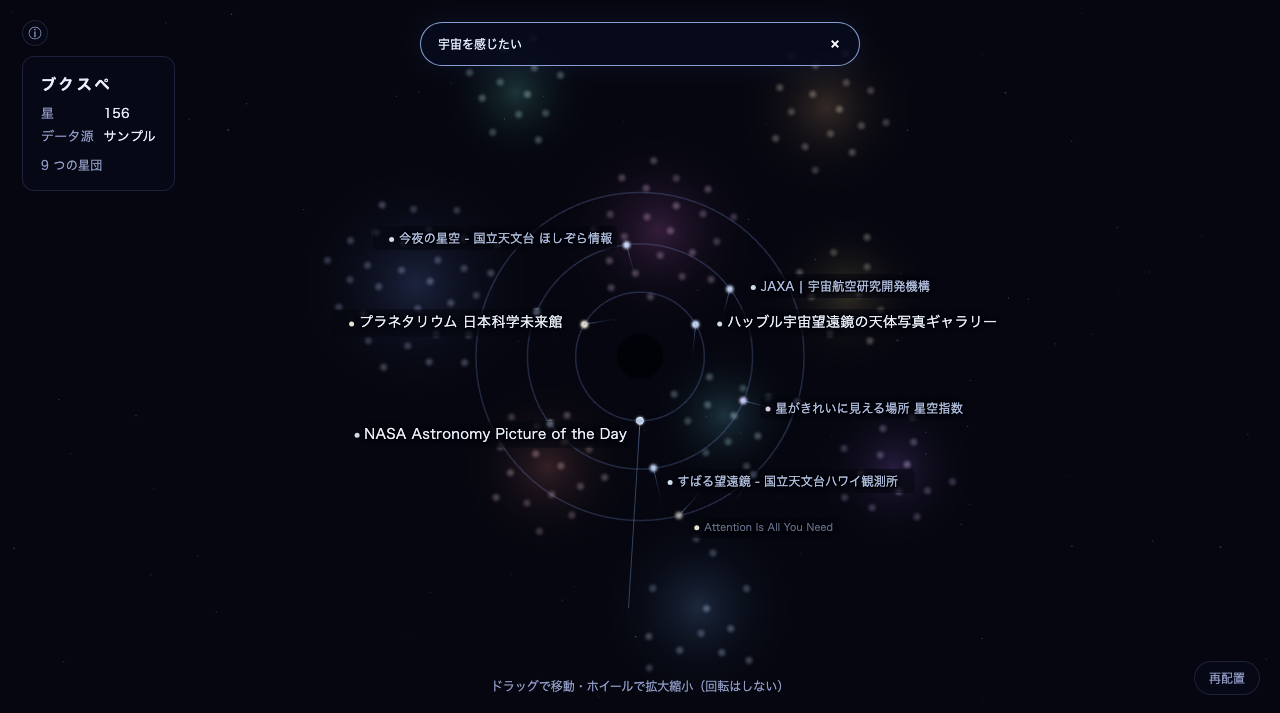
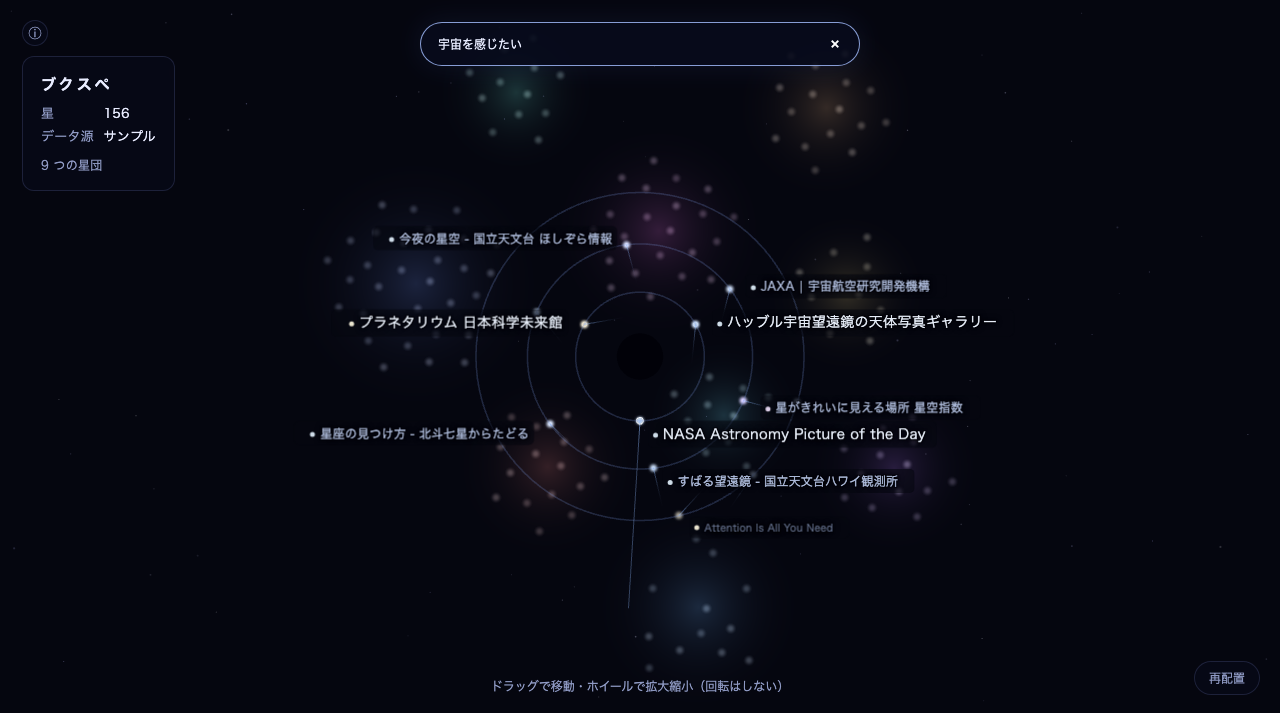
fix(labels): smooth camera tracking

diff --git a/src/render/scene.ts b/src/render/scene.ts
@@ -43,7 +43,14 @@ export class SpaceView {
   /** 地図全体が画面の約 80% に収まる距離。拡大率の段階はこれを基準にする。 */
   private fitDistance = 90;
   private labelSource: LabelSource = { clusters: [], stars: [] };
-  private labelTimer = 0;
+  private labelsDirty = true;
+  private lastLabelMotion = 0;
+  private lastLabelTier: ZoomTier | null = null;
+  private readonly lastLabelCamera = new THREE.Matrix4();
+  private labelCameraKnown = false;
+  private labelDecisions = 0;
+  private labelPositionUpdates = 0;
+  private maxLabelPositionMs = 0;
   private screenCircles: ScreenCircle[] = [];
   private tilt = TILT;
   private tiltTarget = TILT;
@@ -145,7 +152,7 @@ export class SpaceView {
     this.bounds = boundsOf(stars, this.extent);
     if (frame) this.frameAll();
     this.resize();
-    this.labelTimer = 0;
+    this.labelsDirty = true;
   }
 
   /** 入力を始めたら真上から、やめたら斜めから（SPEC 7 章）。 */
@@ -171,7 +178,7 @@ export class SpaceView {
     this.trace.visible = this.searchIds.length > 0;
     this.tails.visible = this.searchIds.length > 0;
     this.hoveredId = null;
-    this.labelTimer = 0;
+    this.labelsDirty = true;
   }
 
   selectSearch(id: string | null): void {
@@ -259,6 +266,15 @@ export class SpaceView {
   /** check:ext が画面上のタイトルと星団の円を照合するための投影値。 */
   labelGeometry(): ScreenCircle[] {
     return this.screenCircles;
+  }
+
+  labelStats(): { frames: number; positionUpdates: number; decisions: number; maxPositionMs: number } {
+    return { frames: this.frames, positionUpdates: this.labelPositionUpdates,
+      decisions: this.labelDecisions, maxPositionMs: this.maxLabelPositionMs };
+  }
+
+  resetLabelTiming(): void {
+    this.maxLabelPositionMs = 0;
   }
 
   start(): void {
@@ -388,17 +404,47 @@ export class SpaceView {
       if (p) this.selectedHalo.position.set(p.x, 0.11, -p.y);
     }
     this.controls.update();
-    this.renderer.render(this.scene, this.camera);
-
-    // ラベルは毎コマ組み直さない（星の描画を邪魔しない）
-    this.labelTimer -= dt;
-    if (this.labelTimer <= 0) {
-      this.labelTimer = 0.12;
-      this.updateLabels();
+    this.camera.updateMatrixWorld();
+    const now = performance.now();
+    const matrix = this.camera.matrixWorld.elements;
+    const previous = this.lastLabelCamera.elements;
+    const moving = !this.labelCameraKnown || matrix.some((value, i) => Math.abs(value - previous[i]) > 1e-6);
+    if (moving) {
+      this.lastLabelMotion = now;
+      this.lastLabelCamera.copy(this.camera.matrixWorld);
+      this.labelCameraKnown = true;
     }
+    const tier = this.zoomTier;
+    if (this.lastLabelTier === null || tier !== this.lastLabelTier ||
+      (!moving && now - this.lastLabelMotion >= 150 && (this.labelsDirty || this.lastLabelMotion > 0))) {
+      this.decideLabels();
+      this.labelsDirty = false;
+      this.lastLabelTier = tier;
+      this.lastLabelMotion = 0;
+      this.labelDecisions++;
+    }
+    const labelStart = performance.now();
+    const size = this.renderer.getSize(new THREE.Vector2());
+    const point = new THREE.Vector3();
+    this.labels.updatePositions((item) => {
+      const current = item.searchRank == null ? null : this.field.displayPosition(item.key);
+      point.set(current?.x ?? item.x, 0, -(current?.y ?? item.y)).project(this.camera);
+      if (point.z > 1) return null;
+      let sx = (point.x * 0.5 + 0.5) * size.x;
+      let sy = (-point.y * 0.5 + 0.5) * size.y;
+      if (item.searchRank != null) {
+        const outward = Math.hypot(sx - size.x / 2, sy - size.y / 2) || 1;
+        sx += (sx - size.x / 2) / outward * 10;
+        sy += (sy - size.y / 2) / outward * 10;
+      }
+      return { sx, sy };
+    });
+    this.labelPositionUpdates++;
+    this.maxLabelPositionMs = Math.max(this.maxLabelPositionMs, performance.now() - labelStart);
+    this.renderer.render(this.scene, this.camera);
   };
 
-  private updateLabels(): void {
+  private decideLabels(): void {
     const tier = this.zoomTier;
     const size = this.renderer.getSize(new THREE.Vector2());
     const v = new THREE.Vector3();
@@ -439,6 +485,8 @@ export class SpaceView {
       items.push({
         key: `c${c.index}`,
         text: c.name,
+        x: c.x, y: tier === "far" ? c.y : c.y + c.radius + 1.5,
+        centered: tier === "far",
         sx: at.sx,
         sy: at.sy,
         kind: "cluster",
@@ -459,6 +507,7 @@ export class SpaceView {
         const own = this.labelSource.clusters.find((c) => c.index === s.cluster);
         items.push({
           key: s.id, text: s.title,
+          x: s.x, y: s.y,
           sx: this.searchIds.length ? at.sx + (at.sx - size.x / 2) / outward * 10 : at.sx,
           sy: this.searchIds.length ? at.sy + (at.sy - size.y / 2) / outward * 10 : at.sy,
           kind: "star",
@@ -481,6 +530,7 @@ export class SpaceView {
     this.renderer.setSize(w, h, false);
     this.camera.aspect = w / h;
     this.camera.updateProjectionMatrix();
+    this.labelsDirty = true;
     // 世界の大きさ 1 が画面上で何ピクセルになるか（距離 1 のとき）
     const scale =
       this.renderer.getDrawingBufferSize(new THREE.Vector2()).y /

diff --git a/src/ui/labels.ts b/src/ui/labels.ts
@@ -13,6 +13,10 @@ export type PlacedLabel = {
   side?: "left" | "right";
   color?: string;
   searchRank?: number;
+  /** カメラ移動中も追跡する地図上の位置。検索中の星は表示位置を使う。 */
+  x: number;
+  y: number;
+  centered?: boolean;
 };
 
 export type Box = { l: number; t: number; r: number; b: number };
@@ -56,7 +60,8 @@ export function entersCircle(box: Box, circle: ScreenCircle): boolean {
  * 星団中心から外へ向けてタイトルを置き、他のタイトルと重なるものを間引く。
  */
 export class LabelLayer {
-  private readonly pool: HTMLDivElement[] = [];
+  private readonly elements = new Map<string, HTMLDivElement>();
+  private active: { item: PlacedLabel; width: number; height: number }[] = [];
   private readonly measure = document.createElement("canvas").getContext("2d");
   private readonly fullText = new Map<string, string>();
   private hovered: string | null = null;
@@ -110,15 +115,42 @@ export class LabelLayer {
     this.paint([]);
   }
 
-  private paint(shown: { item: PlacedLabel; text: string; box: Box }[]): void {
-    while (this.pool.length < shown.length) {
-      const el = document.createElement("div");
-      el.className = "label";
-      this.container.appendChild(el);
-      this.pool.push(el);
+  /** 表示判断は変えず、保存した大きさを使って位置だけを毎フレーム動かす。 */
+  updatePositions(project: (item: PlacedLabel) => { sx: number; sy: number } | null): void {
+    for (const { item, width, height } of this.active) {
+      const at = project(item);
+      if (!at) continue;
+      const x = item.centered
+        ? at.sx - width / 2
+        : item.kind === "star" && item.side === "left" ? at.sx - OFFSET_X - width : at.sx + OFFSET_X;
+      const y = at.sy - height / 2;
+      this.elements.get(item.key)!.style.transform = `translate3d(${x.toFixed(1)}px, ${y.toFixed(1)}px, 0)`;
     }
-    shown.forEach(({ item, text, box }, i) => {
-      const el = this.pool[i];
+  }
+
+  private paint(shown: { item: PlacedLabel; text: string; box: Box }[]): void {
+    const next = new Set(shown.map(({ item }) => item.key));
+    for (const [key, el] of this.elements) {
+      if (next.has(key)) continue;
+      el.style.opacity = "0";
+      el.style.pointerEvents = "none";
+      setTimeout(() => {
+        if (this.active.some(({ item }) => item.key === key)) return;
+        el.remove();
+        this.elements.delete(key);
+      }, 220);
+    }
+    this.active = shown.map(({ item, box }) => ({ item, width: box.r - box.l, height: box.b - box.t }));
+    shown.forEach(({ item, text, box }) => {
+      let el = this.elements.get(item.key);
+      const fresh = !el;
+      if (!el) {
+        el = document.createElement("div");
+        el.className = "label";
+        el.style.opacity = "0";
+        this.container.appendChild(el);
+        this.elements.set(item.key, el);
+      }
       el.textContent = text;
       const orbit = item.searchRank == null ? "" : item.searchRank < 3 ? " label-orbit-inner"
         : item.searchRank < 9 ? " label-orbit-middle" : " label-orbit-outer";
@@ -133,10 +165,10 @@ export class LabelLayer {
       el.style.setProperty("--cluster-color", item.color ?? "transparent");
       // 省略したものだけ、マウスを乗せたら全文を出す
       el.style.pointerEvents = item.searchRank != null || text !== this.fullText.get(item.key) ? "auto" : "none";
-      el.style.transform = `translate(${box.l.toFixed(1)}px, ${box.t.toFixed(1)}px)`;
-      el.style.display = "block";
+      el.style.transform = `translate3d(${box.l.toFixed(1)}px, ${box.t.toFixed(1)}px, 0)`;
+      if (fresh) requestAnimationFrame(() => { if (this.active.some(({ item: active }) => active.key === item.key)) el.style.opacity = "1"; });
+      else el.style.opacity = "1";
     });
-    for (let i = shown.length; i < this.pool.length; i++) this.pool[i].style.display = "none";
   }
 
   private readonly onOver = (e: Event) => {

diff --git a/src/main.ts b/src/main.ts
@@ -444,6 +444,8 @@ let saved: { items: BookmarkItem[]; vectors: Map<string, Float32Array>; layout: 
   starPosition: (id: string) => view?.starPosition(id),
   starVisual: (id: string) => view?.starVisual(id),
   traceGeometry: () => view?.traceGeometry(),
+  labelStats: () => view?.labelStats(),
+  resetLabelTiming: () => view?.resetLabelTiming(),
   cameraTilt: () => view?.cameraTilt(),
   measureLexical: (text: string) => { const t = performance.now(); rankSearch(state.items, text); return performance.now() - t; },
 };

diff --git a/index.html b/index.html
@@ -105,6 +105,8 @@
         position: absolute;
         top: 0;
         left: 0;
+        will-change: transform, opacity;
+        transition: opacity 180ms ease;
         padding: 3px 5px;
         border-radius: 5px;
         background: rgba(5, 6, 15, 0.6);

diff --git a/docs/HANDOFF.md b/docs/HANDOFF.md
@@ -69,6 +69,19 @@
   外側のタイトルは暗めで、マウスを乗せると明るくなる。
 - `docs/screens/search.png` と `docs/screens/search-results.json` は仕上げ後の結果。
 
+### ラベル移動のなめらかさ（M2・M3 共通）
+
+- 通常画面と検索中のラベルを同じ方法で動かす。表示候補・左右・重なりは、カメラが
+  止まってから約 150ms 後、または拡大率の段階が変わったときにだけ再判定する。
+  移動中は表示中の集合と測定済みの幅・高さを保持する。
+- 座標はカメラ更新後、WebGL 描画と同じフレームで `translate3d` に書く。
+  この位置更新は DOM のレイアウト値を読まない。ラベルの入れ替わりは opacity の
+  180ms の変化で見せる。
+- `check:ext` は通常画面・検索中をそれぞれ約 0.75 秒ドラッグする。
+  描画と位置更新は 84/84 コマ、89/89 コマで一致し、更新時間の最大は
+  通常画面 0.10ms、検索中 0.40ms。
+  Chrome の `LayoutCount` とラベル再判定回数はドラッグ中どちらも増えなかった。
+
 ---
 
 ## 2. 決めたことと、その理由
@@ -136,6 +149,9 @@
   重なりを禁じるのは**タイトル同士だけ**で、星の上に重なるのは許し、半透明の暗い下地で読ませる。
   中距離は全角 18 文字で省略（マウスを乗せると全文）、近距離は全文。同時表示は 60 件まで。
 - 遠距離では星団名を星雲の中心に重ね、中距離以降は円の上端の少し上に置く。
+- 表示判断と位置更新を分ける。`src/render/scene.ts` がカメラ停止後約 150ms と段階変更時に
+  `LabelLayer.render()` を呼び、毎フレーム `LabelLayer.updatePositions()` を描画直前に呼ぶ。
+  幅・高さは判断時に測って保持し、毎フレームの DOM レイアウト読み取りは行わない。
 - 分野語の大分類は `src/embed/topic-categories.ts` に全語の対応を置く。星団名の分野語と
   タイトル中の語は大分類だけを数える。既存の配置を読み出す際も名前だけ再判定し、座標は保存値を維持する。
 
@@ -223,6 +239,9 @@ npm run icons      # アイコン PNG を作り直す
 29. 常時表示は 40px 以下で先へ消える尾だけ。元位置までの線は選択中・ホバー中だけ
 30. 内側ほど星とタイトルが大きく明るい。検索タイトルは外向きに揃い、重ならず、外側から間引く
 31. 外側タイトルはホバーで明るくなる
+32. 通常画面と検索中のドラッグで、描画コマ数とラベル位置更新回数が一致する
+33. ドラッグ中のラベル位置更新は毎回 2ms 以内
+34. ドラッグ中、Chrome の `LayoutCount` とラベル再判定回数が増えない
 
 そのうえで `docs/screens/` に initial・far・mid・near のスクリーンショットと
 `clusters.json`（星団の名前・件数・フォルダ内訳）を書き出す。
